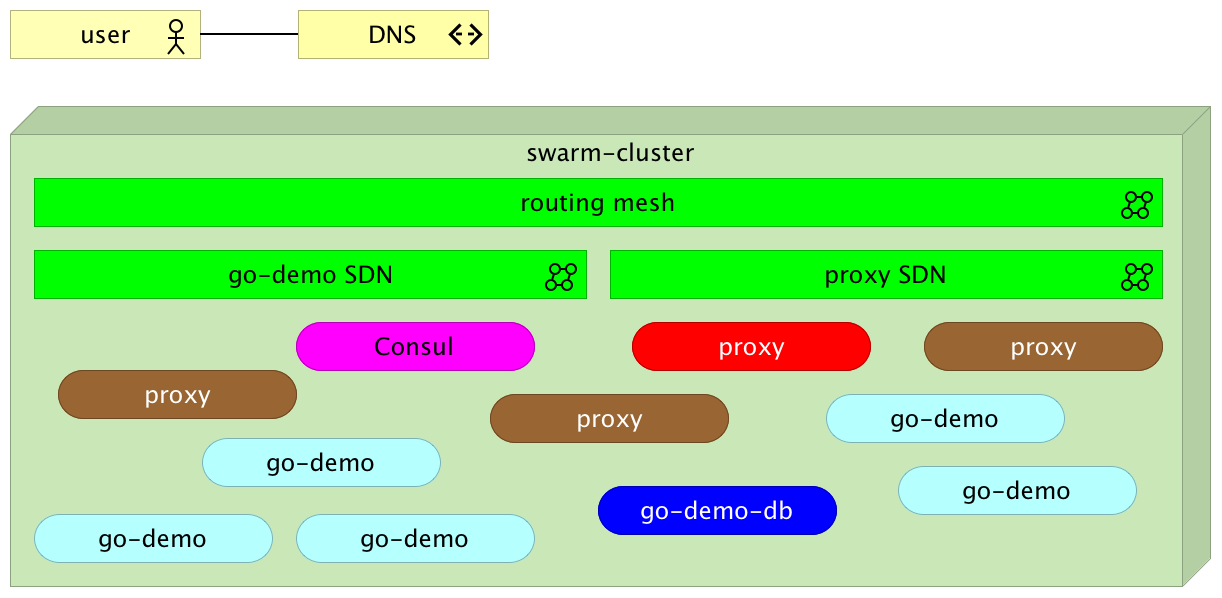
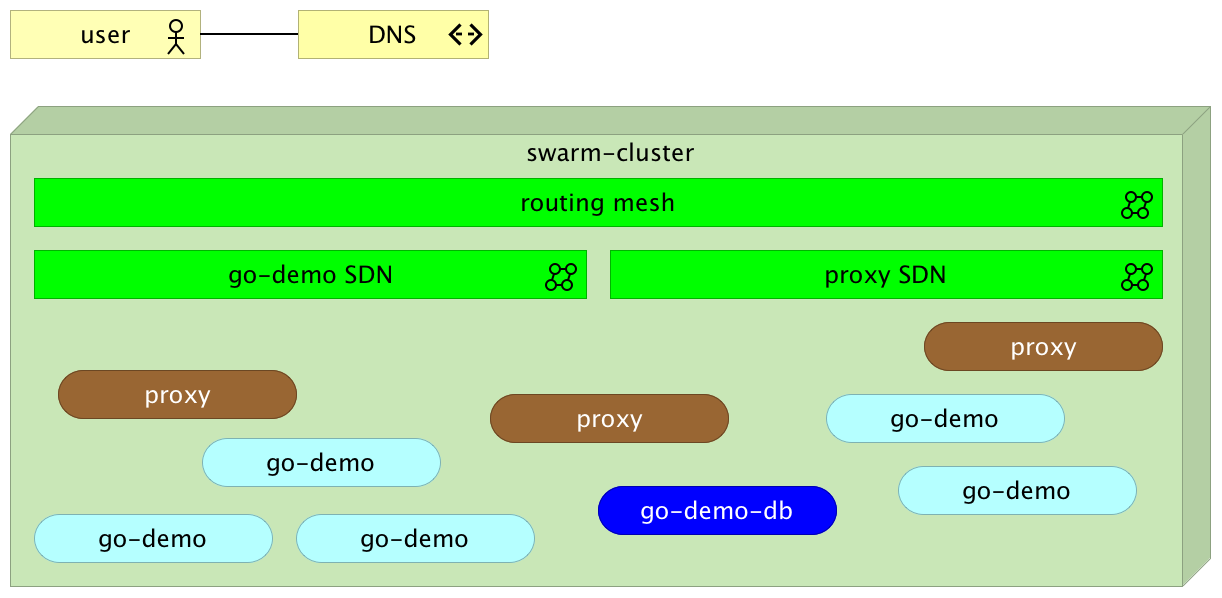
DevOps 2.1 workshop

Changed region(s): [[0.4975, 0.5117, 0.7152, 0.6321], [0.2177, 0.5117, 0.4354, 0.6321]]

diff --git a/devops21/workshop.html b/devops21/workshop.html
@@ -340,8 +340,10 @@ docker network ls</code></pre>
 docker service ls
 
 docker service create --name go-demo -e DB=go-demo-db \
-    --network go-demo --network proxy \
-    --reserve-memory 50m vfarcic/go-demo
+  --network go-demo --network proxy --reserve-memory 50m \
+  --label com.df.notify=true --label com.df.distribute=true \
+  --label com.df.servicePath=/demo --label com.df.port=8080 \
+  vfarcic/go-demo
 
 docker service ps go-demo
 
@@ -406,33 +408,27 @@ docker service ps util</code></pre>
 					<section id="swarm-proxy">
 						<h1>Reverse Proxy</h1>
 						<hr/>
-						<pre><code data-trim contenteditable>wget -O docker-compose-proxy.yml \
-    https://raw.githubusercontent.com/vfarcic/docker-flow-proxy/master/docker-compose.yml
+						<pre><code data-trim contenteditable>docker service create --name swarm-listener \
+  --mount "type=bind,source=/var/run/docker.sock,target=/var/run/docker.sock" \
+  -e DF_NOTIF_CREATE_SERVICE_URL=http://proxy:8080/v1/docker-flow-proxy/reconfigure \
+  -e DF_NOTIF_REMOVE_SERVICE_URL=http://proxy:8080/v1/docker-flow-proxy/remove \
+  --constraint 'node.role==manager' --network proxy \
+  vfarcic/docker-flow-swarm-listener
 
-export DOCKER_IP=$(docker-machine ip swarm-1)
+docker service create -e MODE=swarm -e LISTENER_ADDRESS=swarm-listener \
+  -p 80:80 -p 443:443 --network proxy --replicas 3 \
+  --name proxy vfarcic/docker-flow-proxy
 
-docker-compose -f docker-compose-proxy.yml up -d consul-server
+docker service ps swarm-listener
 
-docker service create --name proxy -p 80:80 -p 443:443 \
-    -p 8080:8080 --network proxy -e MODE=swarm --replicas 3 \
-    -e CONSUL_ADDRESS=$(docker-machine ip swarm-1):8500 \
-    vfarcic/docker-flow-proxy
+docker service ps proxy
 
-docker service ps proxy</code></pre>
+curl -i $(docker-machine ip swarm-1)/demo/hello</code></pre>
 					</section>
 					<section id="swarm-proxy-img">
 						<h1>Reverse Proxy</h1>
 						<hr/>
 						<img src="../img/swarm/proxy-scaled.png">
-					</section>
-					<section id="swarm-proxy-test">
-						<h1>Reverse Proxy</h1>
-						<hr/>
-						<pre><code data-trim contenteditable>curl "$(docker-machine ip swarm-1):8080/v1/docker-flow-proxy/reconfigure?serviceName=go-demo&servicePath=/demo&port=8080&distribute=true"
-
-for i in {1..10}; do
-    curl -i $(docker-machine ip swarm-1)/demo/hello
-done</code></pre>
 					</section>
 					<section id="swarm-proxy-flow-img-1" data-transition="fade-in">
 						<h1>Networking</h1>
@@ -774,7 +770,7 @@ docker service ps -f desired-state=running go-demo</code></pre>
                 <section>
                     <section data-background="../img/background/cleanup.jpg">
                         <h1>Cleanup</h1>
-                        <pre><code data-trim contenteditable>docker-machine rm -f go-demo \
+                        <pre><code data-trim contenteditable>docker-machine rm -f \
     swarm-1 swarm-2 swarm-4 swarm-test-1 swarm-test-2
 
 cd ..
